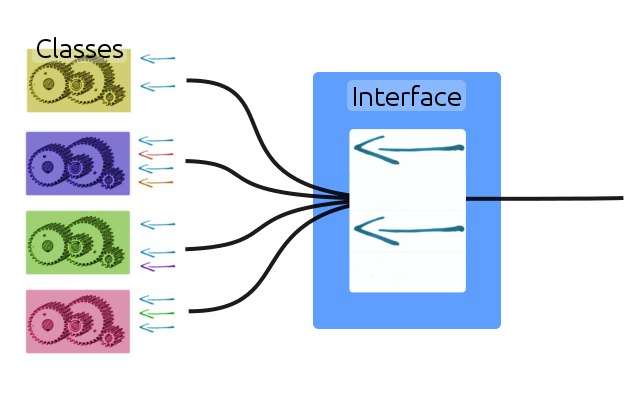
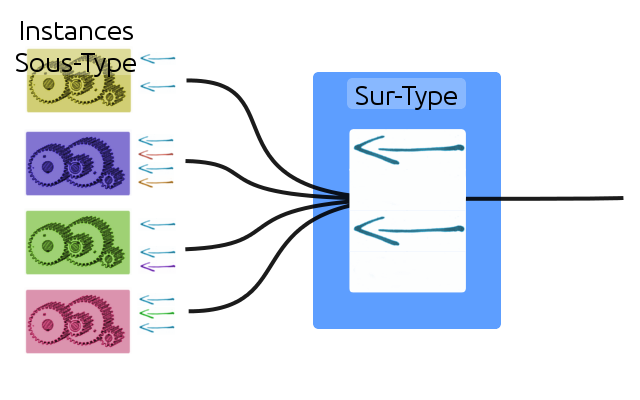
Précision sur le vocabulaire de polymorphisme de sous-type.

Changed region(s): [[0.0312, 0.06, 0.2188, 0.21], [0.5312, 0.18, 0.7188, 0.3]]

diff --git a/conf/slides/objet.tex b/conf/slides/objet.tex
@@ -198,7 +198,7 @@ class childName parameters =
 	\framesubtitle{L'interface}
 	\textit{On peut utiliser une classe ou une interface pour faire du polymorphisme de sous-type.}
 	\begin{block}{Opérateur}
-		~~Classe :> Interface
+		~~Instance\_Sous-Type :> Sur-type
 	\end{block}
 	\begin{block}{Interface}
 		\begin{lstlisting}
